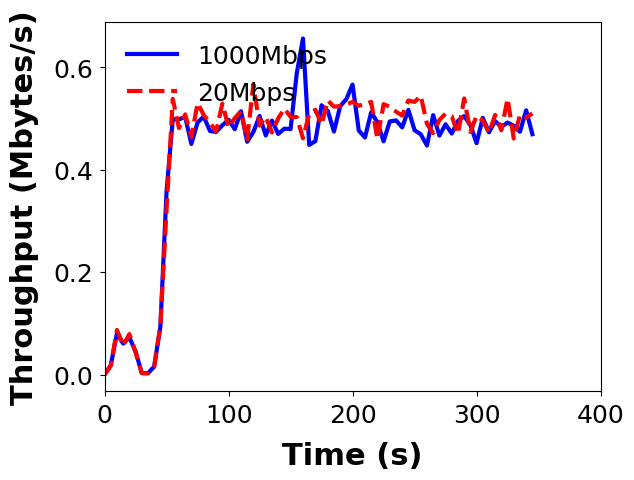
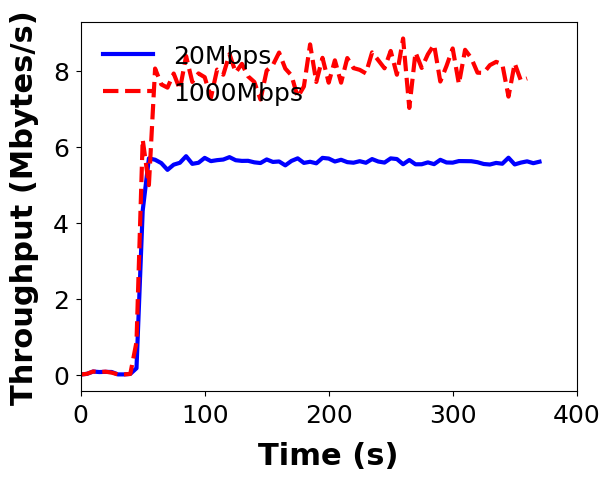
Complete varying network  bandwidth sub-usecase (military application) experiment.

diff --git a/use-cases/varying-networking-conditions/varying-link-bw/military-coordination/scripts/combinedThroughput.py b/use-cases/varying-networking-conditions/varying-link-bw/military-coordination/scripts/combinedThroughput.py
@@ -1,4 +1,4 @@
-# command: sudo python3 use-cases/varying-networking-conditions/varying-link-bw/military-coordination/scripts/combinedThroughput.py
+# command: sudo python3 use-cases/varying-networking-conditions/varying-link-bw/military-coordination/scripts/combinedThroughput.py --log-dir use-cases/varying-networking-conditions/varying-link-bw/military-coordination/logs/scenario-4
 #!/usr/bin/python3
 
 import os
@@ -160,15 +160,15 @@ def overheadCheckPlot(portFlag, msgSize,scenario, label, color, ls, lw, cap):
         newBandwidthSumLeaderLess = [x / 1000000 for x in bandwidthSumLeaderLess]
         aggregatedPlot(portFlag,timeList, newBandwidthSum, newBandwidthSumLeaderLess, "Throughput (Mbytes/s)", msgSize, countX, label, color, ls, lw)    
     
-    if portFlag=="bytes" and scenario==2:
-        #Change legend order
-        # handles, labels = plt.gca().get_legend_handles_labels()
-        # order = [0,2,1]
-        # plt.legend([handles[idx] for idx in order],[labels[idx] for idx in order], frameon=False, loc='upper left', fontsize=18)
+    # if portFlag=="bytes" and scenario==2:
+    #     #Change legend order
+    #     # handles, labels = plt.gca().get_legend_handles_labels()
+    #     # order = [0,2,1]
+    #     # plt.legend([handles[idx] for idx in order],[labels[idx] for idx in order], frameon=False, loc='upper left', fontsize=18)
 
     
-        # plt.savefig("use-cases/varying-networking-conditions/varying-link-bw/military-coordination/plots/combinedThroughput.pdf", format='pdf', bbox_inches="tight")
-        plt.savefig("use-cases/varying-networking-conditions/varying-link-bw/military-coordination/plots/combinedThroughput", bbox_inches="tight")
+    #     # plt.savefig("use-cases/varying-networking-conditions/varying-link-bw/military-coordination/plots/combinedThroughput.pdf", format='pdf', bbox_inches="tight")
+    #     plt.savefig("use-cases/varying-networking-conditions/varying-link-bw/military-coordination/plots/combinedThroughput", bbox_inches="tight")
     # else:    
     #     plt.savefig(logDirctory+args.portType+" aggregated "+portFlag+"("+str(args.switches)+" nodes "+str(args.nTopics)+" topics "+str(args.replication)+" replication)",bbox_inches="tight")         
 
@@ -203,10 +203,12 @@ args = parser.parse_args()
 logDirectory = args.logDir + "/bandwidth/"
 
 clearExistingPlot()
-plotAggregatedBandwidth(scenario=1, label='1000Mbps', color='blue', ls='solid', lw=3.0, cap=5.0)      #for aggregated plot    
-print("Aggregated plot created for link bandwidth 1000Mbps node scenario (scenario 1).")
+plotAggregatedBandwidth(scenario=4, label='20Mbps', color='blue', ls='solid', lw=3.0, cap=9.0)      #for aggregated plot    
+print("Aggregated plot created for link bandwidth 20Mbps node scenario (scenario 4).")
 
-logDirectory = args.logDir.replace("scenario-1", "scenario-2")
+logDirectory = args.logDir.replace("scenario-4", "scenario-5")
 logDirectory = logDirectory + "/bandwidth/"
-plotAggregatedBandwidth(scenario=2, label='20Mbps', color='red', ls='dashed', lw=3.0, cap=5.0)      #for aggregated plot    
-print("Aggregated plot for all created.")                       
+plotAggregatedBandwidth(scenario=5, label='1000Mbps', color='red', ls='dashed', lw=3.0, cap=9.0)      #for aggregated plot    
+print("Aggregated plot for all created.")     
+
+plt.savefig("use-cases/varying-networking-conditions/varying-link-bw/military-coordination/plots/combinedThroughput", bbox_inches="tight")
